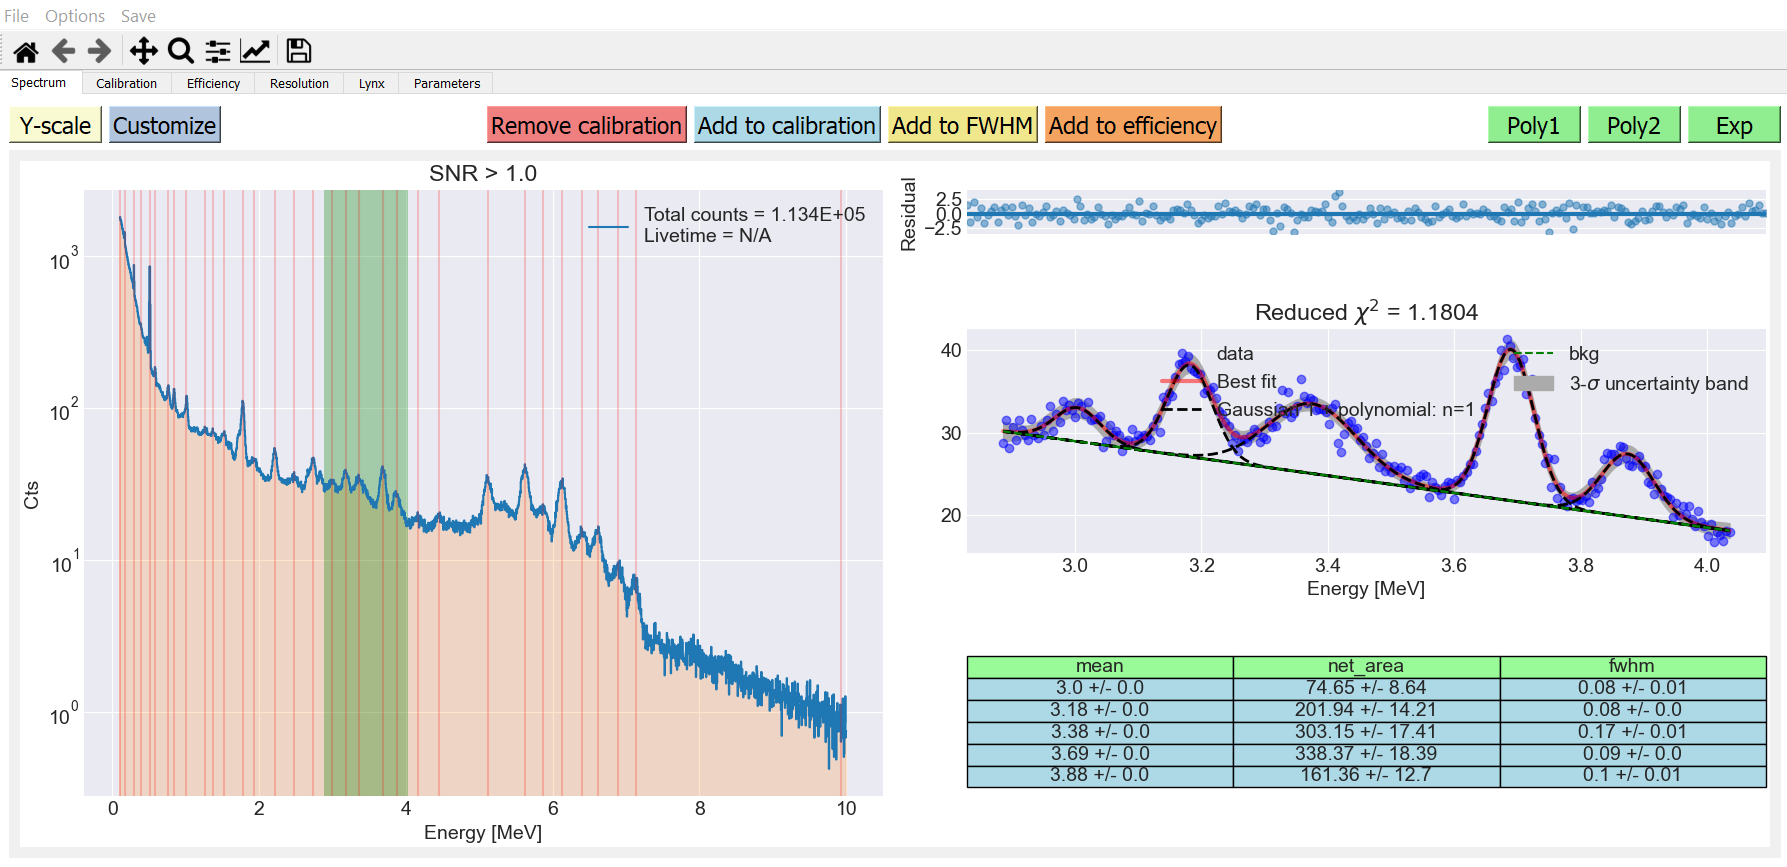
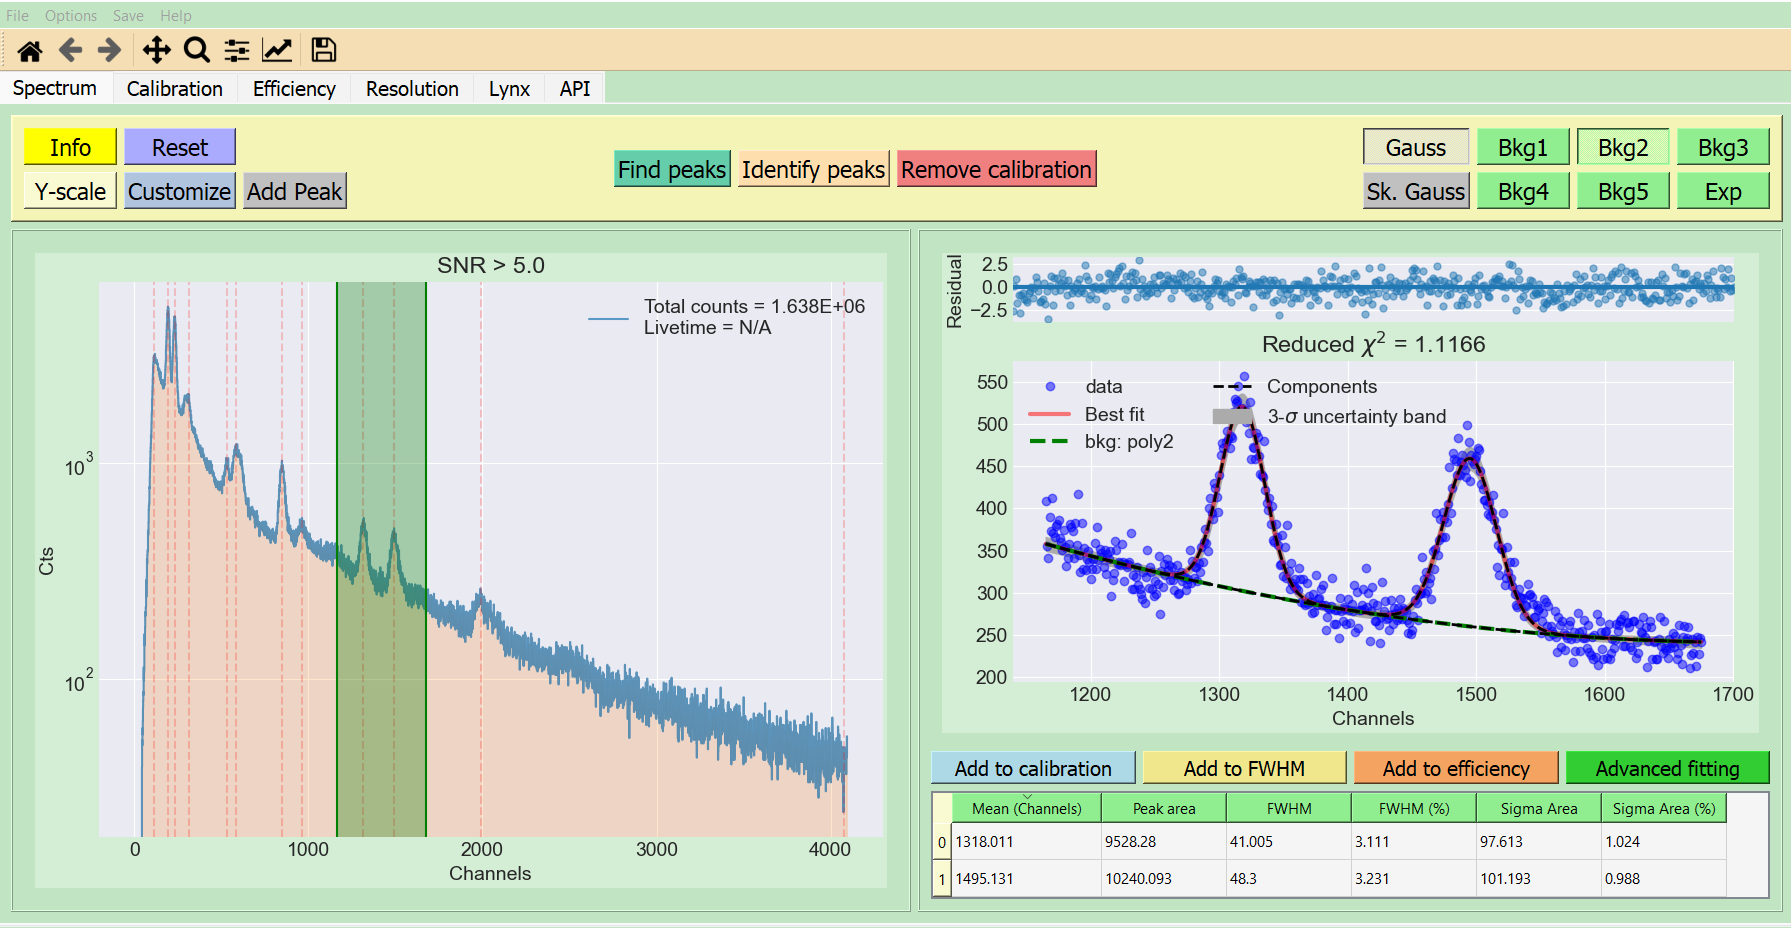
Added new figures for the Github repo

diff --git a/README.md b/README.md
@@ -11,6 +11,8 @@ Gamma spectrocopy tools and visualizations. Some of its capabilitis include:
 8. Efficiency calibration
 9. FWHM vs. energy plots
 10. Time analysis from LYNX data
+11. Data visualization for PIXIE data in the contect of Associated Particle Imaging (API)
+12. Gamma energy identification with built-in databases. Emphasis is placed on neutron induced gamma ray emission.
 
 ## Installation
 nasagamma runs on Python 3.6 or higher version. You can install it by
@@ -28,16 +30,17 @@ from the directory where the setup.py file is located.
 Try running the following (if the path is set correctly, the GUI can run from any directory.
 Otherwise, run from inside the "NASA-gamma" folder):
 ```
-gammaGUI-qt -o
+python gammaGUI-qt -o
 ```
+If running through the Spyder IDE, replace the keyword "Python" for "run".
+The GUI window should appear.
 Then select File -> open -> examples -> data -> gui_test_data_labr.csv.
-Go to the Parameters tab and choose the following parameters:
-SNR > 1
-Reference channel: 420
-Reference FWH: 15
-and hit "Apply". Then, go back to the Spectrum tab and feel free to play around!
+Click on "Find peaks", select LaBr/CeBr and hit apply.
+You should see several lines identified in the spectrum. Drag the mouse over one or more lines and feel free to play around.
+Info buttons are placed strategically to guide the user.
 
 ![gammaGUI](figs/gammaGUI_qt.png)
+![peakIdentifer](figs/gammaGUI_qt_peak_identifier.png)
 ![ecalGUI](figs/gammaGUI_qt_cal.png)
 
 
